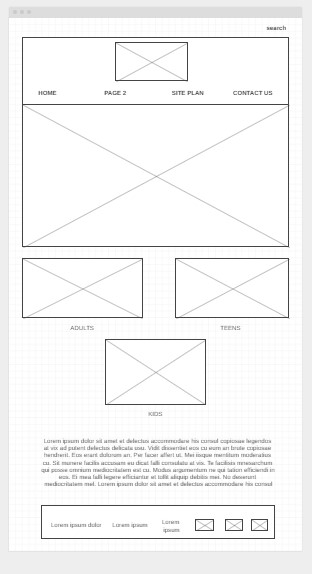
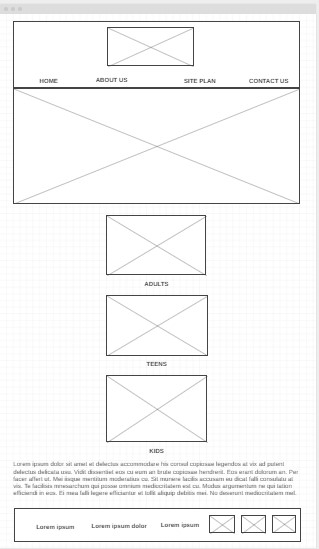
updated person website

diff --git a/personwebsite/contactus.html b/personwebsite/contactus.html
@@ -77,32 +77,34 @@
 <body>
     <div id="content">
 
-    <header>
-        <a id="logo_link" href="index.html"> 
-            <img class="logo" src="images/logo.jpeg" alt="logo image">  
-        </a> 
-        <nav> 
-            <a href="index.html">Home</a> 
-            <a href="aboutus.html">about us</a> 
-            <a href="personal-website.html">Site Plan</a> 
-            <a href="contactus.html">Contact us</a> 
-        </nav>
-    </header>
-    <div id="contact-grid">
-        <section class="address-icon">
-            <img class="icon" src="images/address-1 (1).png" alt="Look on google map for directions">
-            <h2>Address</h2> 
-        </section>
-        <section class="phone-icon">
-            <img class="icon" src="images/call-us.png" alt="call us">
-            <h2>Call us</h2> 
-        </section>
-        <section class="email-icon">
-            <img class="icon" src="images/email-1.png" alt="email us">
-            <h2>Email</h2> 
-        </section>
+        <header>
+            <a id="logo_link" href="index.html"> 
+                <img class="logo" src="images/logo.jpeg" alt="logo image">  
+            </a> 
+            <nav> 
+                <a href="index.html">Home</a> 
+                <a href="aboutus.html">About us</a> 
+                <a href="personal-website.html">Site Plan</a> 
+                <a href="contactus.html">Contact us</a> 
+            </nav>
+        </header>
+        <div id="contact-grid">
+            <section class="address-icon">
+                <img class="icon" src="images/address-1 (1).png" alt="Look on google map for directions">
+                <h1>4763 Tabatha</h1>
+                <h2>Themablethu</h2>
+                <h3>George, 6529</h3> 
+            </section>
+            <section class="phone-icon">
+                <img class="icon" src="images/call-us.png" alt="call us">
+                <h1>078 080 0021</h1> 
+            </section>
+            <section class="email-icon">
+                <img class="icon" src="images/email-1.png" alt="email us">
+                <h1>ids@gmail.com</h1> 
+            </section>
 
-    </div>
+        </div>
         <main>
             <div id="feedback"></div>
             <form action="/my-handling-form-page" method="post">
@@ -148,11 +150,12 @@
                  document.body.classList.toggle('moveDown');
                 });
             </script>
-        <section class="contact-img">
-            <img src="images/address.jpg" alt="image for page3">
-            <img src="images/image3.jpg" alt="image for page3">
-        </section>
-    </main> 
+
+            <section class="contact-img">
+                <img src="images/address.jpg" alt="image for page3">
+                <img src="images/image3.jpg" alt="image for page3">
+            </section>
+        </main> 
     <footer> 
         <p><a href="index.html">Home</a></p> 
         <p><a href="contactus.html">Contact Us</a></p> 
@@ -167,7 +170,8 @@
                 <img src="images/instagram.png" alt="instagram icon"> 
             </a> 
         </div>   
-    </footer>   
+    </footer>
+    </div id="content">
 </body> 
 </html> 
 

diff --git a/personwebsite/styles/style.css b/personwebsite/styles/style.css
@@ -7,6 +7,7 @@
 
 header {
     background-color: rgba(25, 71, 41, 0.418);
+    
 
 }
 .logo {
@@ -28,20 +29,23 @@ nav a{
 .prep-img{
     width: 100%;    
 }
+
 main section{
-    text-align: center;
-   
+    justify-items:center;
+    gap: 20px;
+    text-align: center; 
 }
 
 main section img {
+    display: inline-table;
     box-sizing: border-box;
- 
 }
 
-
 .card-img {
-    width: 100%;
+    width: 30%;
     border: 10px solid #503a5c;
+    transition: transform .5s;
+    box-shadow: 5px 5px 10px #6f7364;   
 }
 
 body{
@@ -52,15 +56,14 @@ body{
     padding: 0;
 }
 
-h2 {
-    margin: 0;
+h1, h2{
+    font-size:large;
+    margin: 35px;
 }
 
-nav a:hover {
-    
+nav a:hover { 
     background-color: rgba(82, 52, 52, 0.219);
-    color:rgb(78, 55, 12);
-    
+    color:rgb(78, 55, 12);  
 }
 .order_now{
     font-size: 18px;
@@ -93,22 +96,15 @@ nav a:hover {
     color: rgb(41, 29, 35);
 }
 .msg p {
-    
     font-size: .8em;
     color: rgb(0, 0, 0);
     padding-bottom: 15px;
 }
-.adult-card, .teen-card, .kid-card { 
-    margin: 50px auto;
-    width: 60%;
-}
-main-1{
-    text-align: left;
-}
-#contact-grid{
-    text-align: left;
-}
 
+.Adult-card, .Teen-card, .Kid-card { 
+    margin: 30px auto;
+    width: 30%;
+}
 
 
 footer{
@@ -116,6 +112,9 @@ footer{
     color: rgba(8, 8, 7, 0.164);
     padding: 25px 50px;
     margin-top: 50px;
+    display: flex;
+    justify-content: space-around;
+    align-items: center;
 }
 
 footer a {
@@ -136,4 +135,29 @@ footer p a:hover {
 footer .social img {
     padding-top: 10px;
     
+}
+
+/*aboutus.html*/
+
+.page-card{
+    display: flex;
+    gap: 100px;
+}
+
+
+/*contactus.html css*/
+h1{
+    display: inline-flex;
+    gap: 100px;
+}
+
+.section, contact-img{
+    row-gap: 30px;
+}
+
+main-1{
+    text-align: left;
+}
+#contact-grid{
+    text-align: left;
 }

diff --git a/personwebsite/index.html b/personwebsite/index.html
@@ -15,7 +15,7 @@
             </a> 
             <nav> 
                 <a href="index.html">Home</a> 
-                <a href="aboutus.html">about us</a> 
+                <a href="aboutus.html">About us</a> 
                 <a href="personal-website.html">Site Plan</a> 
                 <a href="contactus.html">Contact us</a> 
             </nav>
@@ -28,9 +28,9 @@
         <main class="Home-grid"> 
             <section class="adult-card"> 
                 <img class="card-img" src="images/adult-image.jpg" alt="Fashion for adults">     
-                <h2>adults fashion</h2> 
+                <h2>Adults fashion</h2> 
             </section>
-            <section class="adult-card"> 
+            <section class="teen-card"> 
                 <img class="card-img" src="images/teen-image.jpg" alt="Fashion for Teenagers">     
                 <h2>Teens fashion</h2> 
             </section>
@@ -60,8 +60,7 @@
                     <img src="images/instagram.png" alt="instagram icon"> 
                 </a> 
             </div> 
-        </div id="content">
         </footer> 
-    </div>
+    </div id="content">
 </body> 
 </html> 

diff --git a/personwebsite/aboutus.html b/personwebsite/aboutus.html
@@ -15,7 +15,7 @@
             </a> 
             <nav> 
                 <a href="index.html">Home</a> 
-                <a href="aboutus.html">about us</a> 
+                <a href="aboutus.html">About us</a> 
                 <a href="personal-website.html">Site Plan</a> 
                 <a href="contactus.html">Contact us</a> 
             </nav>
@@ -52,8 +52,7 @@
                     <img src="images/instagram.png" alt="instagram icon"> 
                 </a> 
             </div> 
-        </div id="content">
         </footer> 
-    </div>
+    </div id="content">
 </body> 
 </html> 

diff --git a/wwr/river.html b/wwr/river.html
@@ -54,7 +54,7 @@
 
                 <a class='book now' href="rivers.html">Book now</a> 
             </section>  
-        </main> 
+        </main-1> 
         <footer-2> 
             <p><a href="river.html">Home</a></p>
             <p><a href="site-plan-rafting.html">Site Plan</a></p> 

diff --git a/wwr/index.html b/wwr/index.html
@@ -78,7 +78,7 @@
                 </a> 
             </div>   
         </footer> 
-    </div>
+    </div id="content">
 </body> 
 </html> 
 
